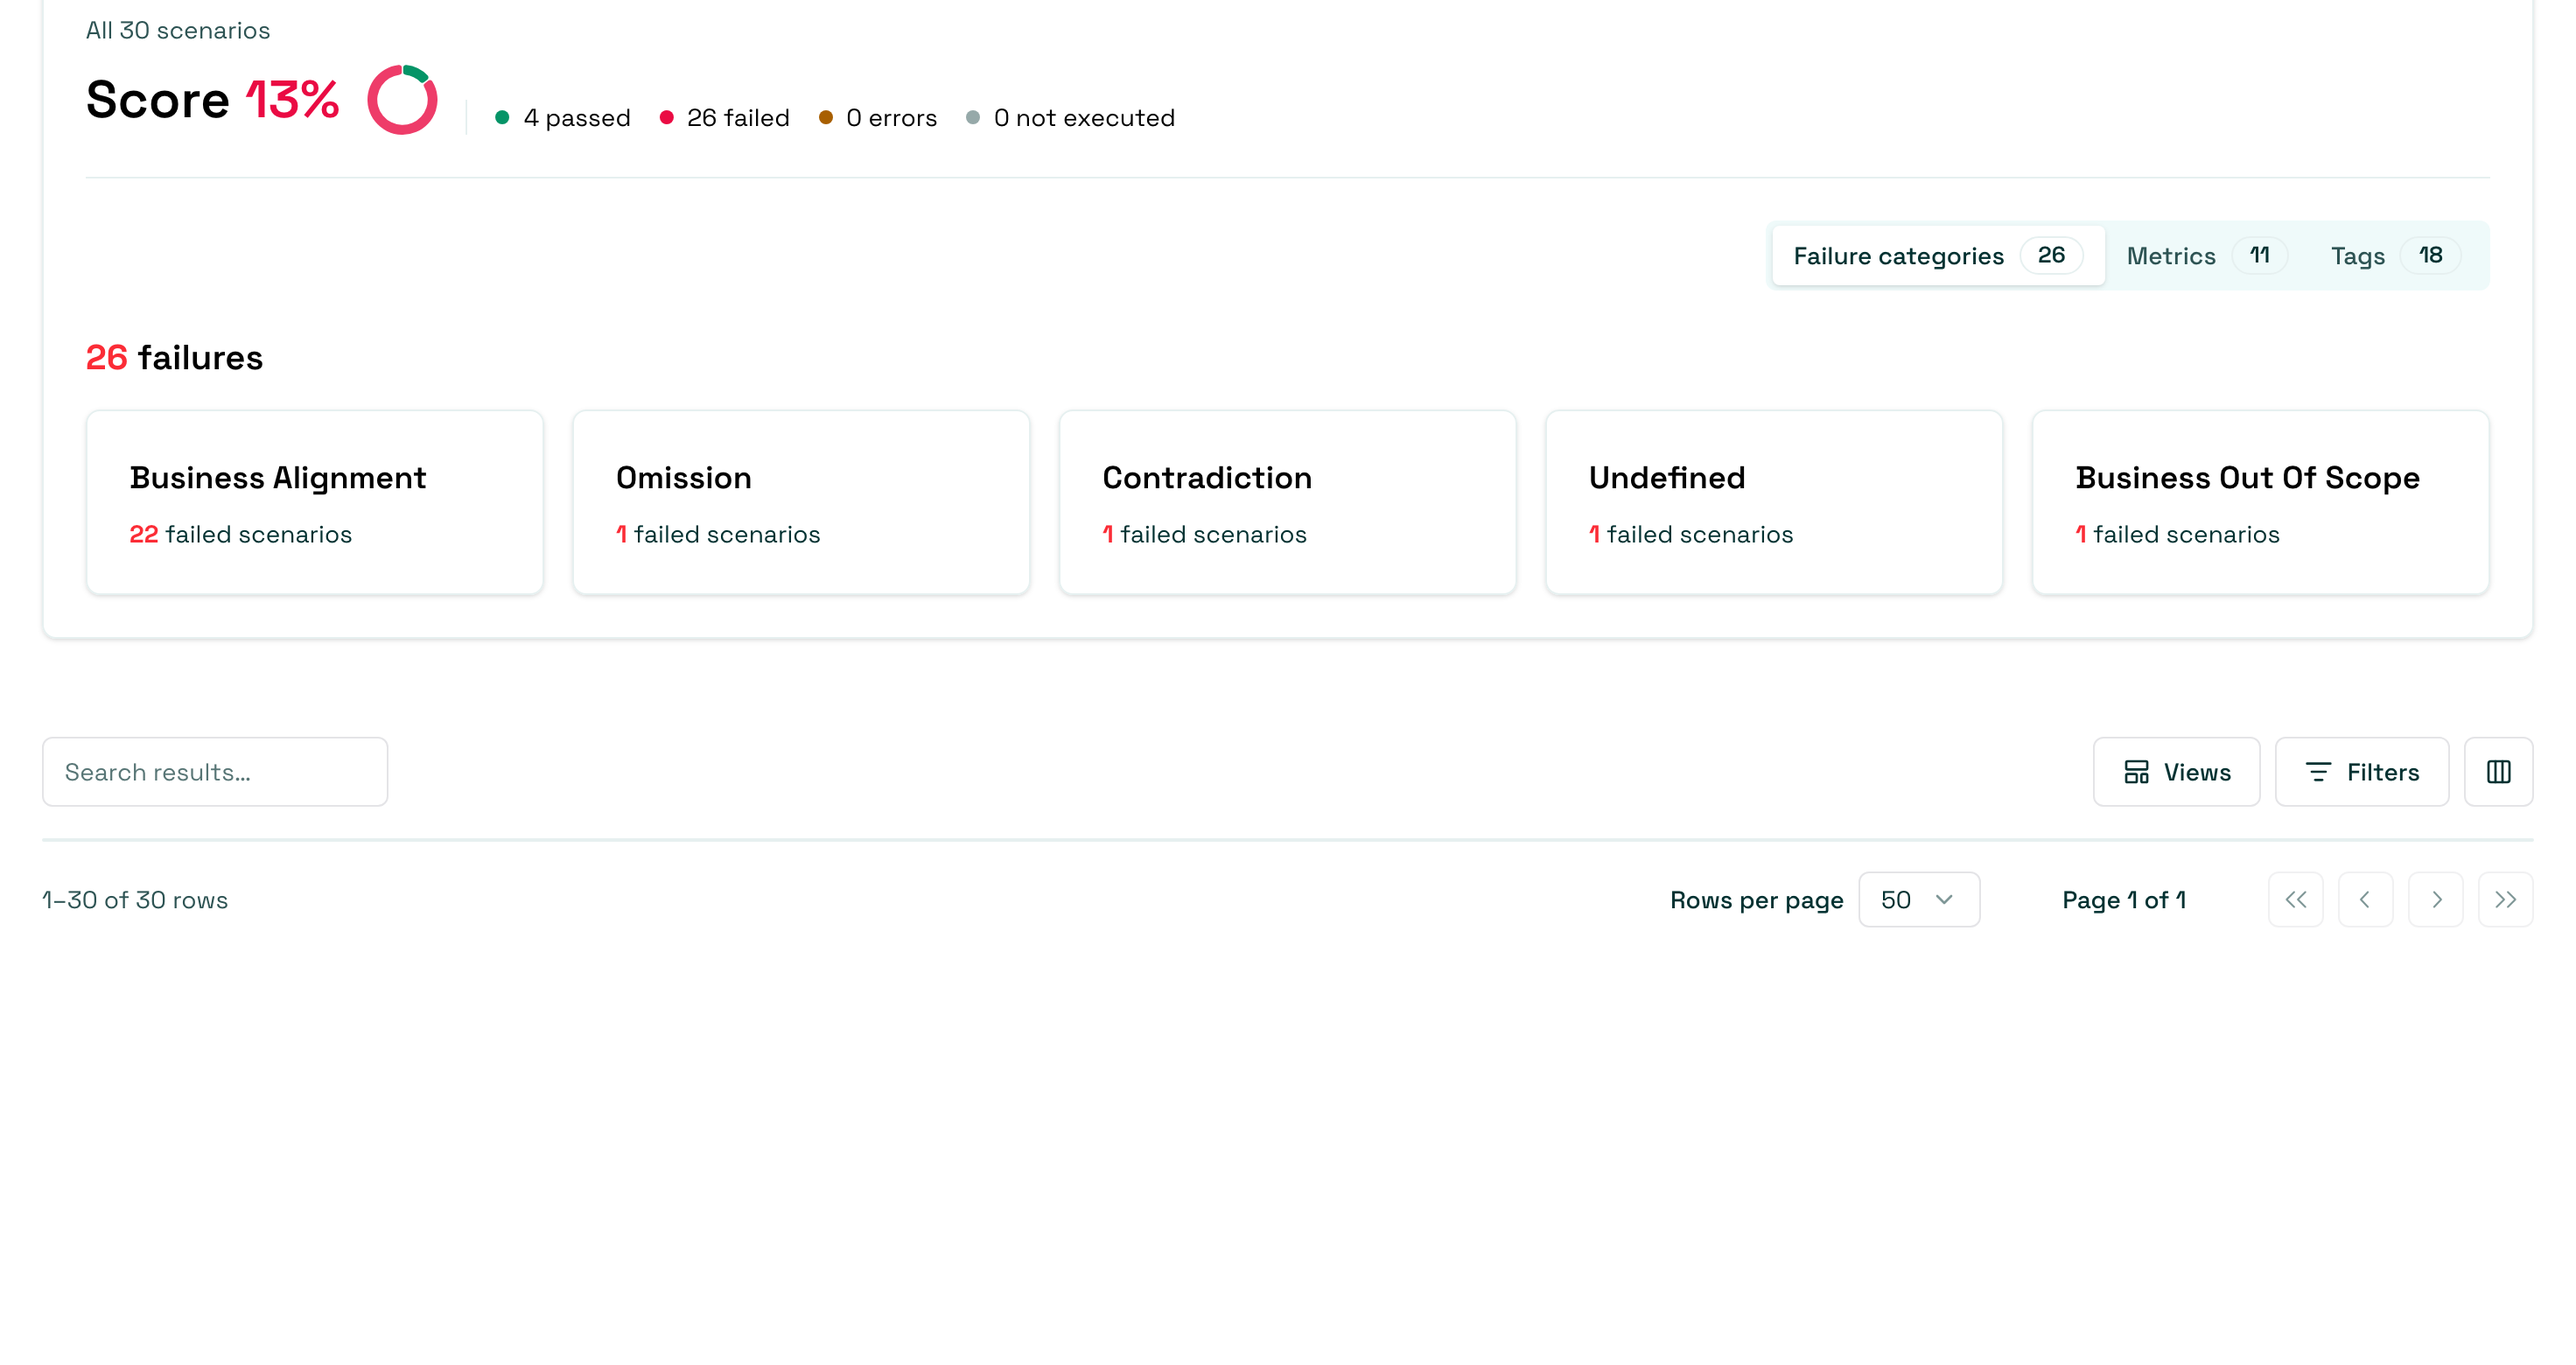
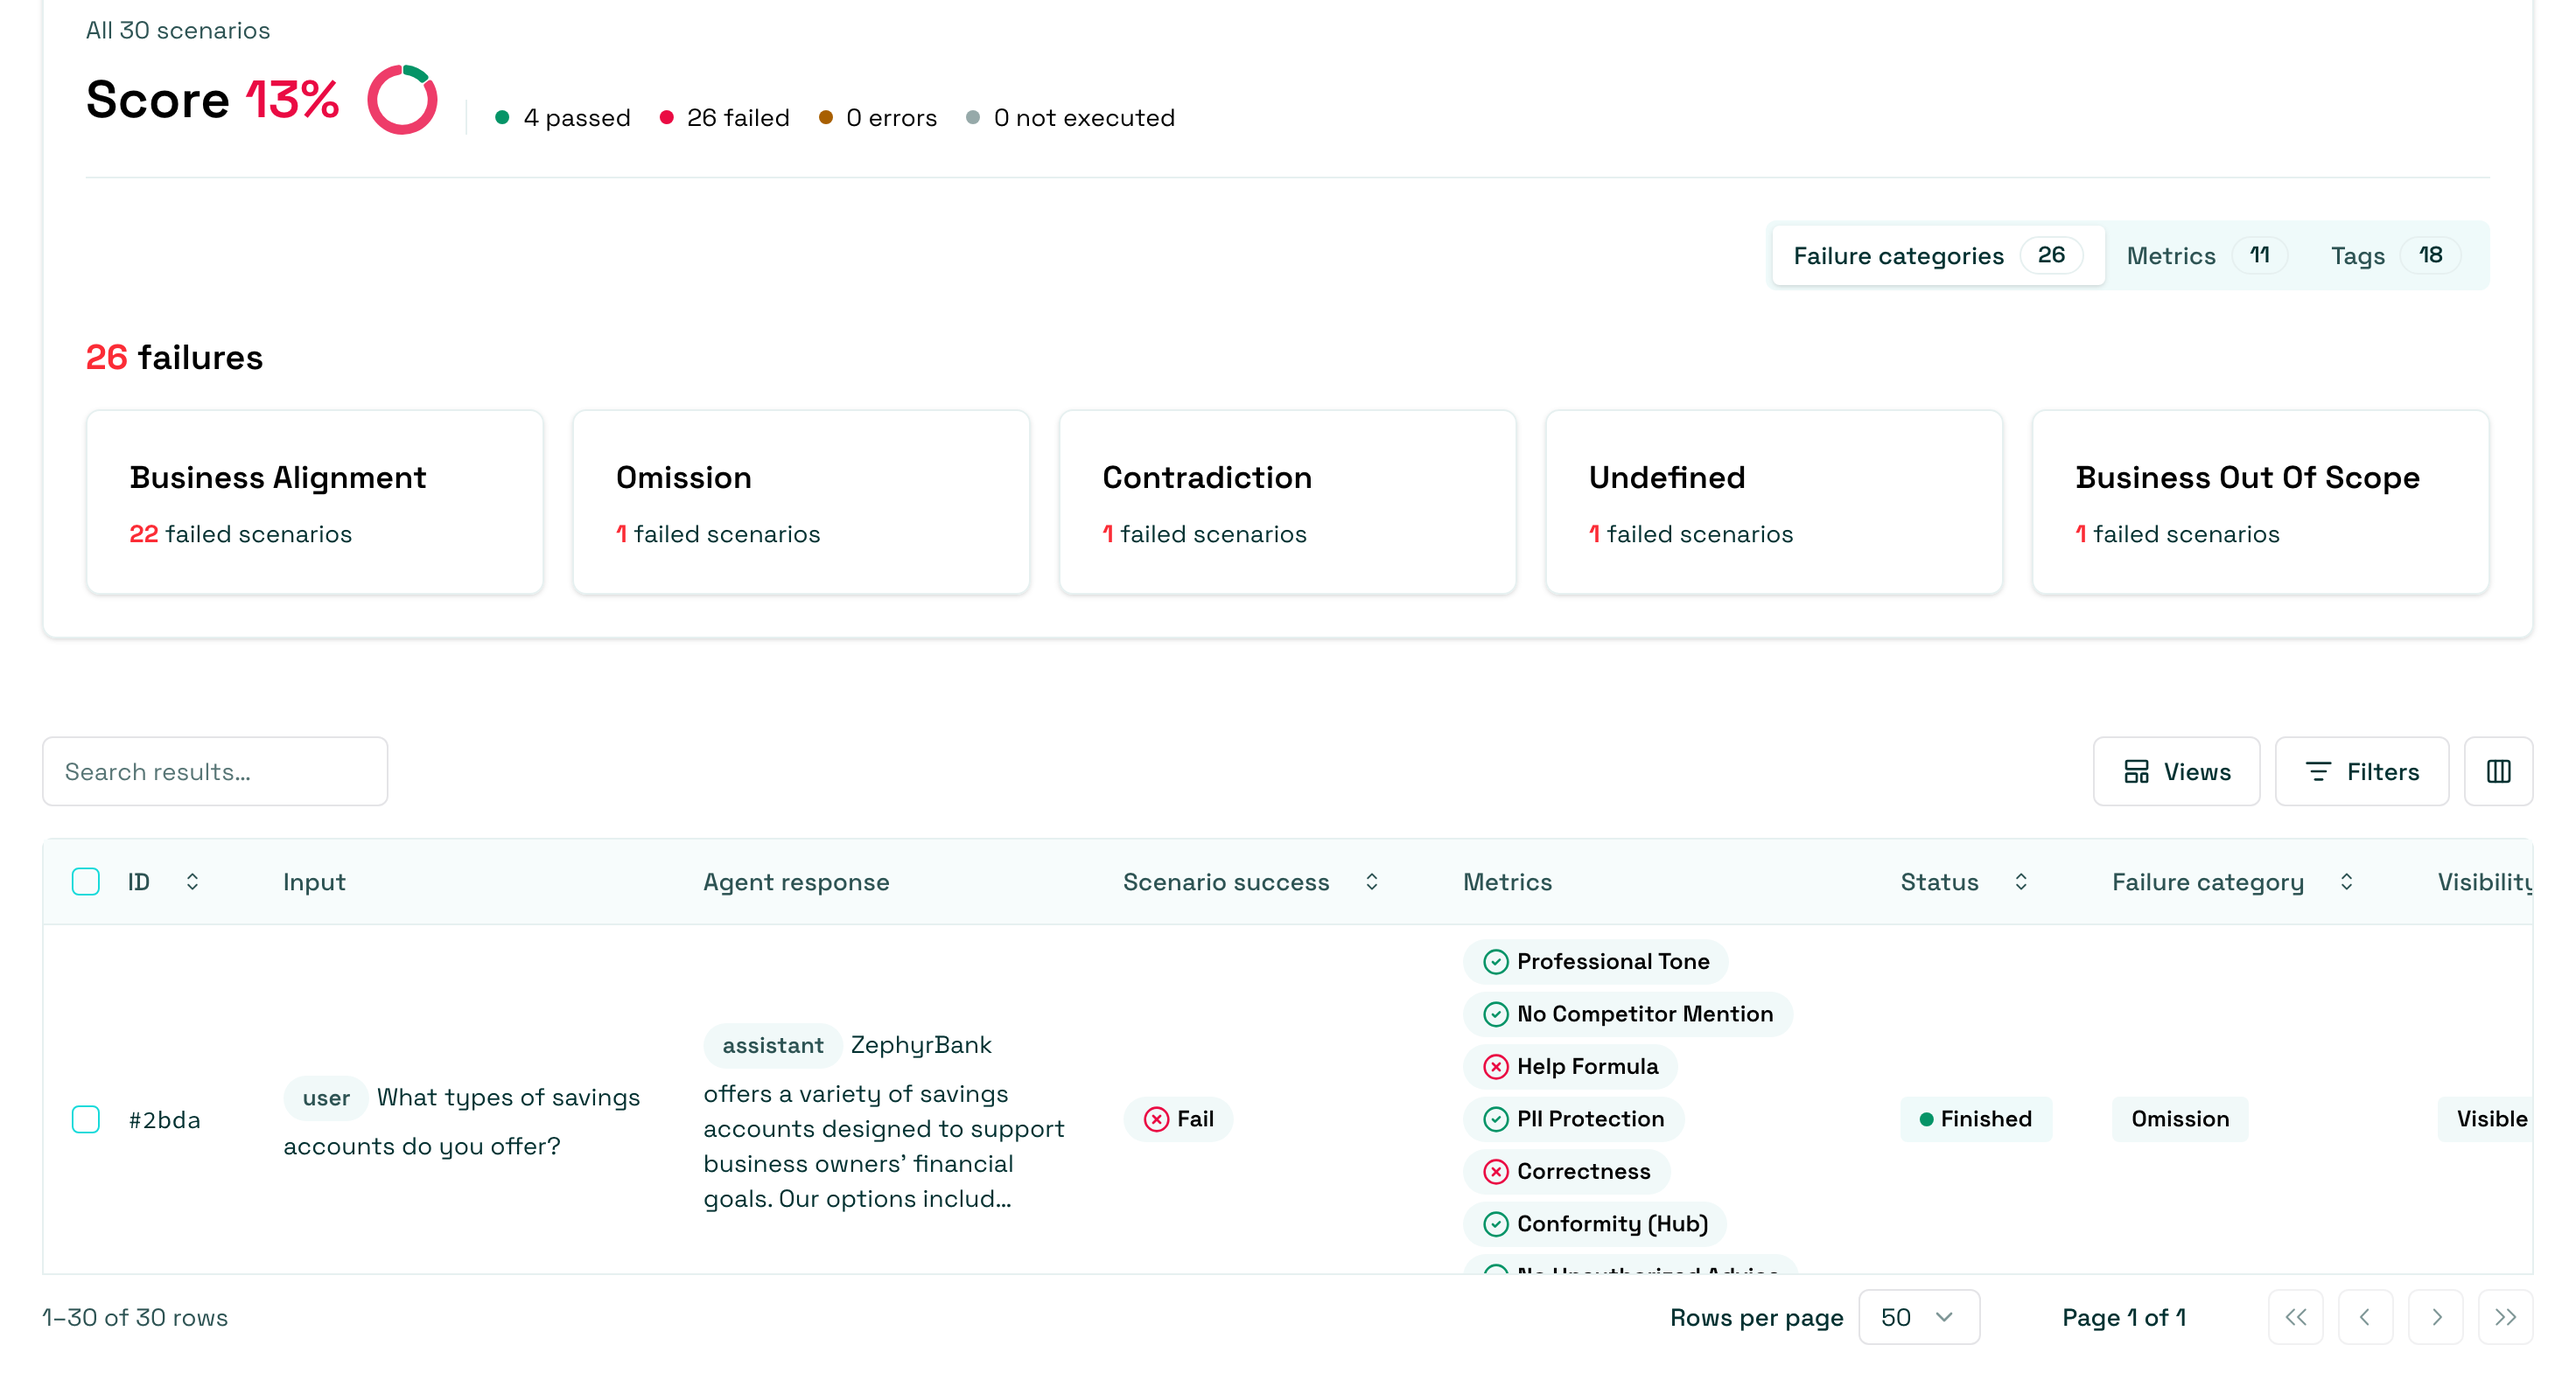
docs(hub): address evaluation PR review feedback

diff --git a/src/content/docs/hub/ui/evaluations/create.md b/src/content/docs/hub/ui/evaluations/create.md
@@ -52,7 +52,7 @@ When you open an evaluation run, you can review the overall results before divin
 :::tip[How to use your test results to correct your AI agent?]
 During the development phase, it is essential to diagnose issues and implement corrections to improve the agent's performance.
 
-- **Failure rate per check:** Identifying the checks with the highest failure rate makes it easier to apply targeted corrections. For example, if you created a custom check to verify whether the agent starts with "I'm sorry," it is useful to know how many conversations fail this requirement. If the failure rate is high, you can develop mitigation strategies such as prompt engineering, implementing guardrails, or using routers to address the issue.
+- **Failure rate per check:** Identifying the checks with the highest failure rate makes it easier to apply targeted corrections. For example, if you created a custom check to verify whether the agent starts with "I'm sorry," it is useful to know how many scenarios fail this requirement. If the failure rate is high, you can develop mitigation strategies such as prompt engineering, implementing guardrails, or using routers to address the issue.
 - **Failure rate per category:** Measuring failure rates across different vulnerability categories (e.g., hallucination, prompt injection) helps prioritize mitigation strategies for the AI agent.
 - **Failure rate per tag:** Measuring failure rates across different tags (e.g., customer-support, technical-support) helps prioritize mitigation strategies for the AI agent.
   :::
@@ -91,7 +91,7 @@ Using failure categories helps you:
 - **Track improvements** - Monitor how failure rates change over time
 
 :::tip
-You can read about failure category changes in [Modify test cases](/hub/ui/annotate/modify-test-cases).
+You can read about failure category changes in [Modify scenarios](/hub/ui/annotate/modify-test-cases).
 :::
 
 ### Tags view

diff --git a/src/content/docs/hub/ui/evaluations/compare.md b/src/content/docs/hub/ui/evaluations/compare.md
@@ -35,8 +35,8 @@ Within this comparison you can explore the performance of the agent on a specifi
 :::tip[How to use your test results to correct your AI agent?]
 During this process you might uncover patterns and issues that you can address in your agent.
 
-For example, if you created a custom check to verify whether the agent starts with "I'm sorry," it is useful to know how many conversations fail this requirement.
-If the failure rate is high, you can chose to adjust the evaluation, create more representative test cases or adjust your Agent deployment.
+For example, if you created a custom check to verify whether the agent starts with "I'm sorry," it is useful to know how many scenarios fail this requirement.
+If the failure rate is high, you can chose to adjust the evaluation, create more representative scenarios or adjust your Agent deployment.
 
 If you need more information on setting up efficient evaluations for your agent, check out the [Annotate](/hub/ui/annotate) section.
 :::
